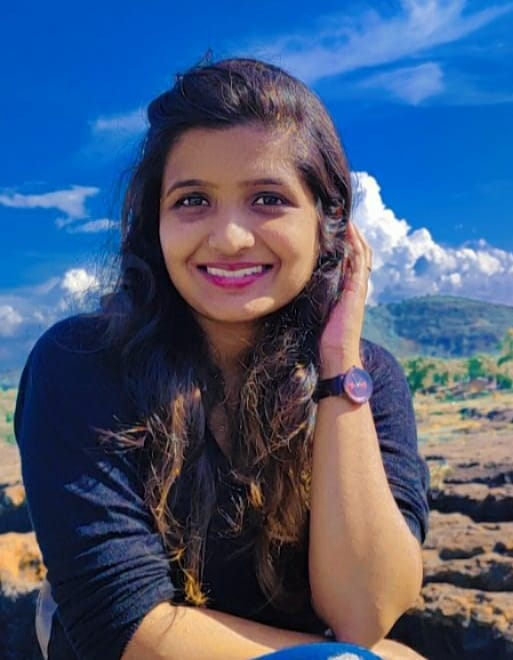
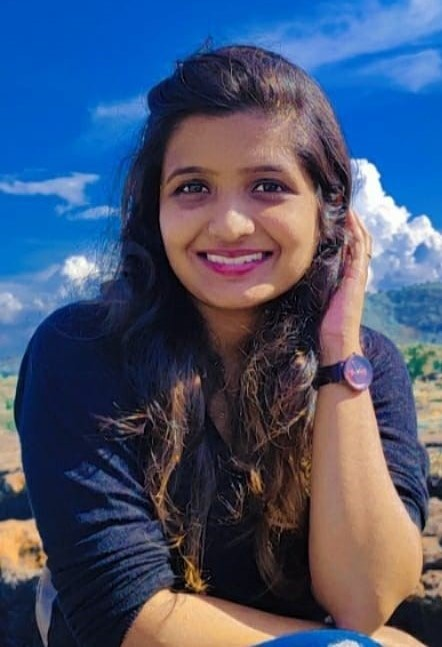
o

diff --git a/src/pages/Home.js b/src/pages/Home.js
@@ -12,16 +12,19 @@ function Home() {
         className="introduction flex-with-center"
         style={{ backgroundImage: `url('./introbg.svg.svg')` }}
       >
-        <div> <img className="pic" alt="" data-aos="fade-right" src="./p1p1.jpg"></img>
-          <h1 className="nam" data-aos="fade-up">AISHWARYA</h1>
+        <div> <img className="pic" alt="" data-aos="fade-right" src="./p1p1.jpg"></img> 
+        
+        
+        <h1 className="nam" data-aos="fade-up">AISHWARYA</h1>
 
           <div className="intro-content d-flex justify-content-between">
             <p>
               <h3 className="mern">MERN FULL STACK DEVELOPER</h3>
             
               <span className="spaan">Passionate about developing Excellent problem solving skills and
-              ability to perform well in a team.Effective Communicator and a learning enthusiast with a proactive attitude.
+              ability to perform well in a team with a proactive attitude.
               </span>  </p>
+              <br/>
             <button className="primary-button font-bold">
               <a href="#courosel">Get Started</a>
             </button>
@@ -30,7 +33,7 @@ function Home() {
         <br />
        
       </div>
-
+     
       <Courosel />
 
       <div>
@@ -47,7 +50,7 @@ function Home() {
         <div className="row justify-content-start">
           <div className="col-md-4">
             <div className="n-box2 p-5 font-bold" data-aos="fade-right">
-              <h1>Full Stack Web Developer</h1>
+              <h1 className="fullstack">Full-Stack Web Developer</h1>
               <br />
               <p>
                 Result-driven full-stack web developer developing user-friendly

diff --git a/src/stylesheets/home.css b/src/stylesheets/home.css
@@ -6,24 +6,45 @@
 }
 
 .pic {
-  width: 35%;
-  height: 63%;
-
-  padding: 30px;
-  border-radius: 50%;
+  width: 37%;
+    /* padding: 30px; */
+    border-radius: 50%;
+    height: 285px;
 }
 .introductionnn {
   width: 100%;
   height: 50%;
 }
+
+.fullstack {
+  font-size: 22px;
+  font-weight: 500;
+}
 .nam {
   font-size: large;
 }
-
-
 @media (max-width: 750px) {
   nam {
     font-size: 12px;;
+  }
+}
+
+
+div.font-bold {
+  margin-left: 18px;
+}
+
+div.font-bold.text-end {
+  margin-right: 18px;
+}
+@media (max-width: 750px) {
+  .pic {
+    width: 200px;
+    height: 200px;
+  left: 50%;
+top:8%;
+   position: absolute;
+    border-radius: 100px;
   }
 }
 .introductionn {
@@ -87,9 +108,17 @@
   transition: all 0.5s;
   overflow: none !important;
 }
+.bo {
+  width: 100%;
+  height: 100%;
+}
 
-
-
+@media (max-width: 750px) {
+  .bo {
+    width: 20%;
+    height: 20%;
+  }
+}
 @media (max-width: 750px) {
   .who-is-aishwarya {
     background-size: 40% 40%;
